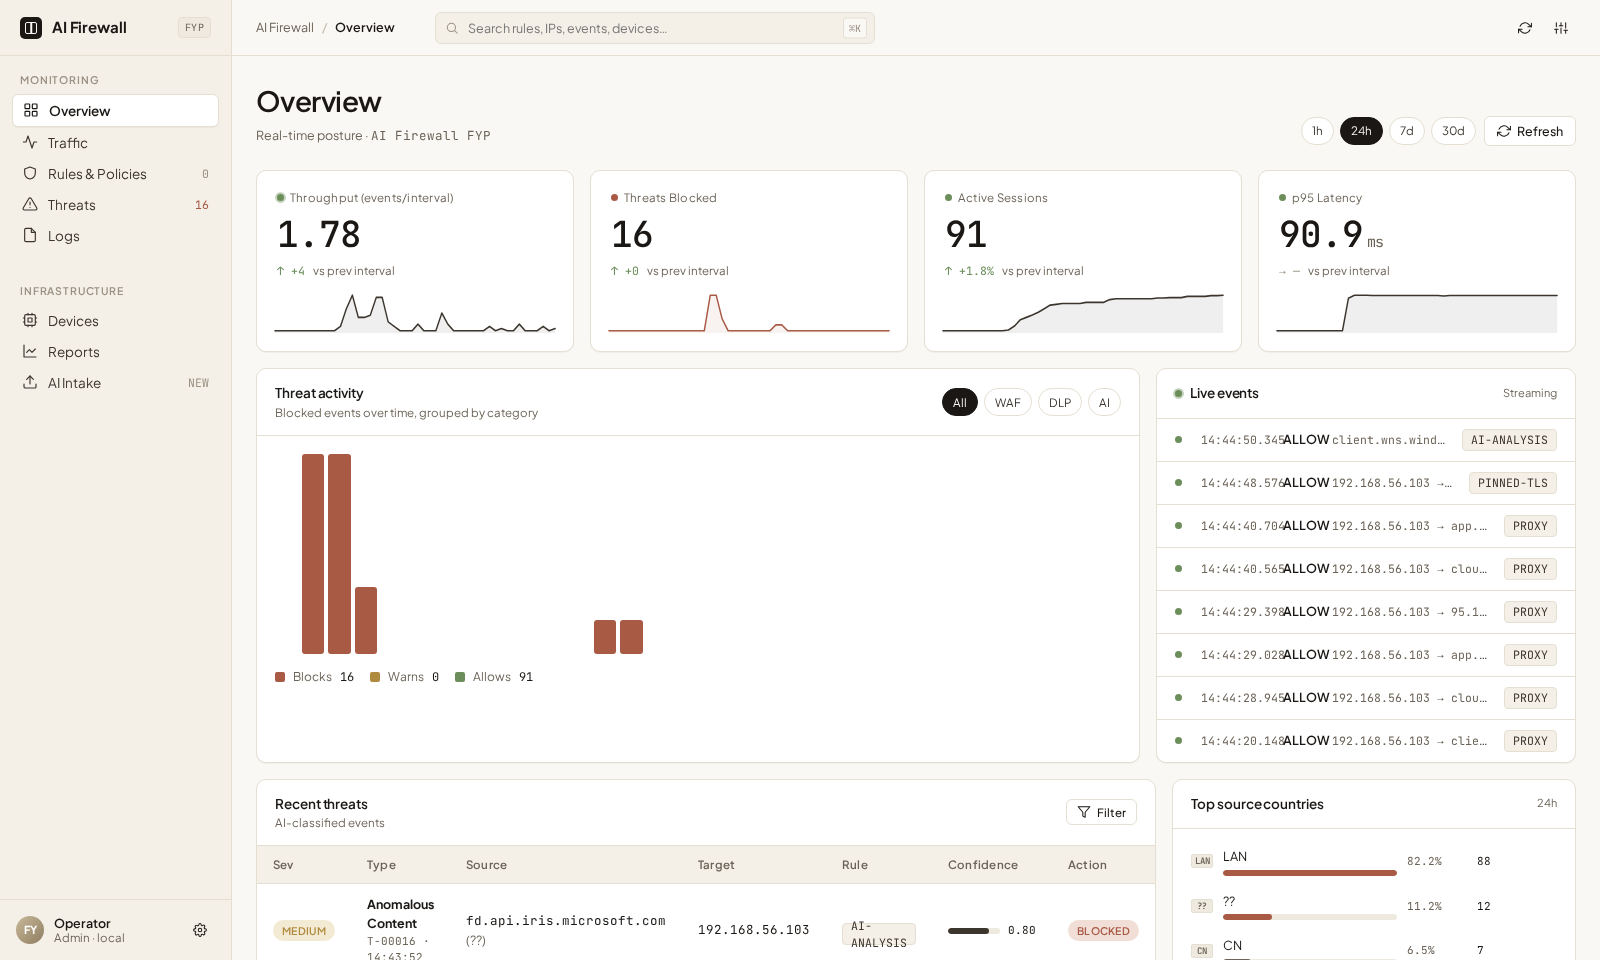
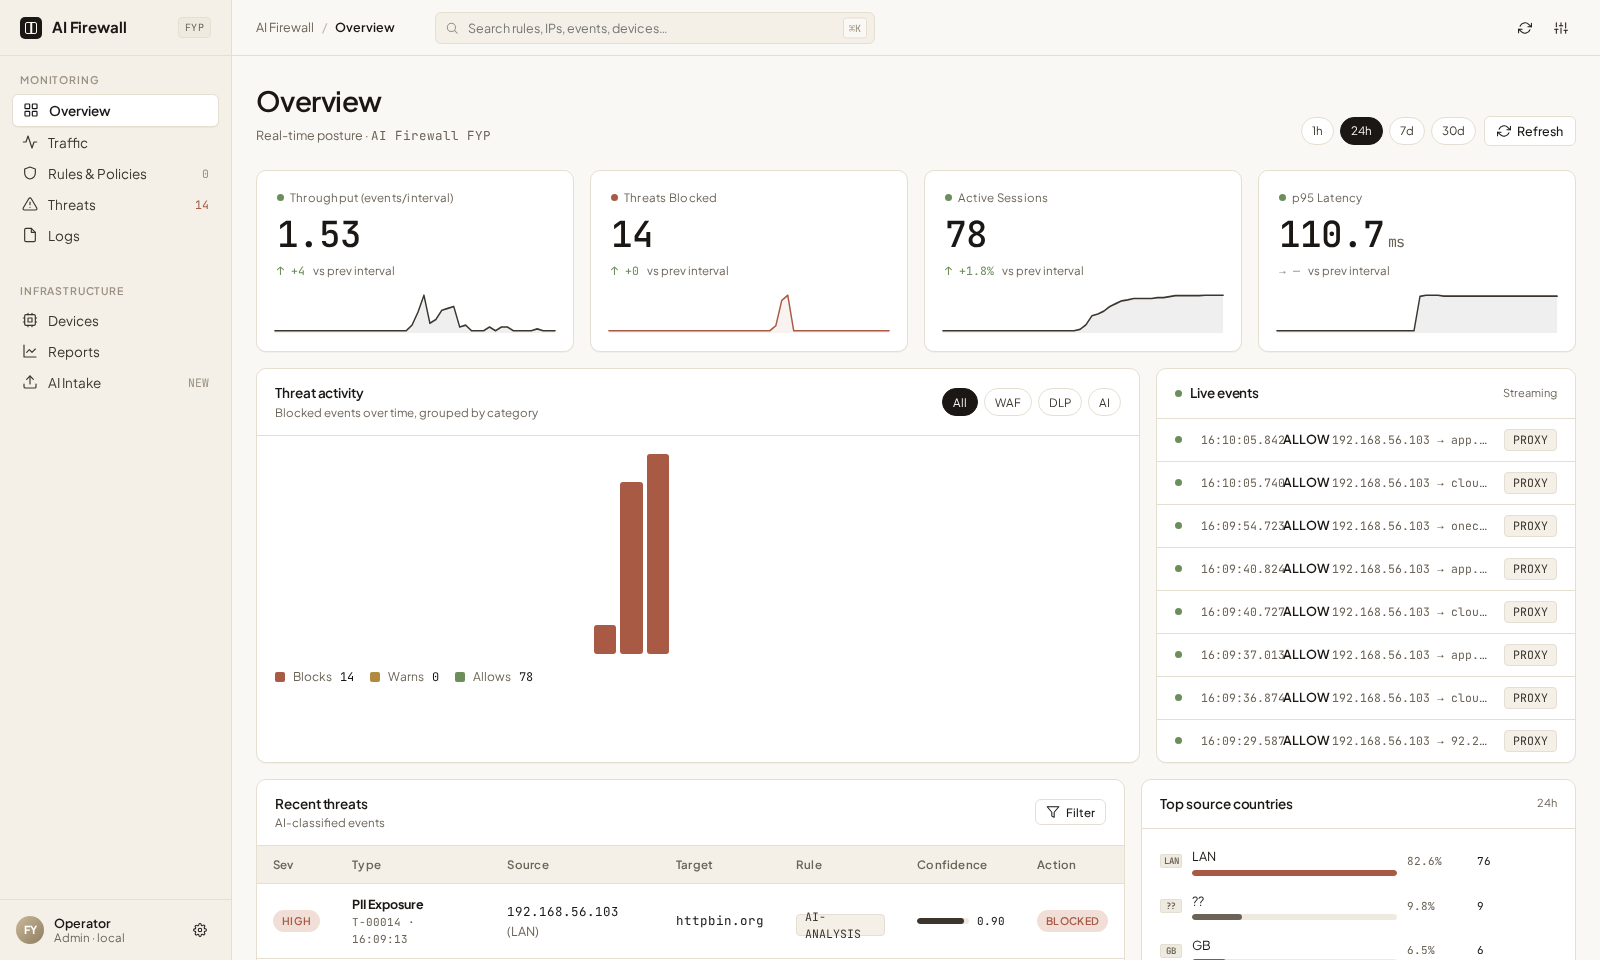
docs: PII policy in README; re-capture screenshots without false-positive rows
The previously published Threats screenshot showed two blocked Microsoft telemetry replies, which were false positives from the PII analyzer. Re-captured after the PII fix: the threat list now shows only the lab battery's real detections with proper labels. README: PII policy section, PII_MIN_SCORE, inbound row, baseline (445 passed), known limitations. Screenshots re-checked by OCR for unrelated infrastructure names.

diff --git a/README.md b/README.md
@@ -57,11 +57,13 @@ This is a gateway people have to be able to use. Every default favours not break
 | **Request target** (path + query string, sent only when it looks interesting) | traversal / sensitive-file regex, secrets scan, WAF model on values with an *active* character (quotes, `<>;\|&$(){}`, `..`, SQL phrases; plain URLs and tokens are skipped) | signature hit, vendor secret, or WAF attack label ≥ threshold |
 | **Outbound body** | secrets, PII patterns, prompt-injection signatures, then router → WAF (JSON scored value-by-value) or zero-shot sensitive-content | vendor secret, PII, WAF/sensitive hit |
 | **Outbound body to an LLM endpoint** | all of the above + extracted message text scored by the prompt-injection model in overlapping windows; signature hits **block** | injection model ≥ threshold or signature |
-| **Inbound reply** | secrets, PII patterns, signatures; the WAF and the injection model do **not** run | PII pattern (secrets and signatures are advisory) |
+| **Inbound reply** | secrets, PII and signatures (all advisory); zero-shot sensitive-content; the WAF and the injection model do **not** run | sensitive-content hit only |
 | **Images** | CLIP multi-label, YOLOv8, OCR → secrets + PII, stego, file-safety guards | policy per group |
 | **Documents** | YARA, VirusTotal hash lookup, metadata forensics, structural anomaly (Isolation Forest) | any engine blocks |
 
 **Secret policy.** Outbound, vendor secrets that never belong on the wire (AWS keys, private keys, Stripe live keys, GitHub/Slack tokens, DB connection strings) block. Credentials that legitimately travel in requests and responses (JWTs, client-side Google API keys, a generic `password=`) are advisory. Inbound, everything is advisory.
+
+**PII policy.** Presidio findings block on *evidence*, not on entity type. A US SSN blocks only at Presidio confidence ≥ `PII_MIN_SCORE` (0.4): a bare nine-digit id scores 0.05 and is ignored, a formatted SSN scores 0.5, and one with context ("ssn", "social security") 0.85. A Luhn-valid number always scores 1.0, so a credit card additionally needs card formatting (`4111 1111 1111 1111`) or a card-ish word just before it (`card`, `cvv`, `visa`, …); a bare Luhn-valid identifier is advisory. This was found by capturing live blocks: a Windows push-notification reply and an app login body were being blocked as "SSN" at confidence 0.05. Phone/email are informational only.
 
 **LLM scope.** Prompt injection only matters for text that will reach an instruction-following model. Traffic is treated as LLM traffic when it is outbound **and** the host is in `config/llm_hosts.json`, the path ends in a known LLM API path (`/v1/chat/completions`, `/v1/messages`, …), or the JSON body looks like an LLM call (`model` + `messages`/`prompt`/`input`/`contents`). The list hot-reloads; add your company's internal LLM gateway there.
 
@@ -217,6 +219,7 @@ All settings are environment variables. `start_all.sh` sources a `.env` in the p
 | `WAF_MAX_VALUES` / `WAF_MAX_VALUE_CHARS` | `64` / `2000` | caps for per-value scoring |
 | `WAF_MODEL_PATH` | `ml/waf/artifacts/waf_distilbert` | joblib file or HF directory |
 | `PROMPT_INJECTION_THRESHOLD` | `0.9` | injection-model block cutoff (LLM traffic only) |
+| `PII_MIN_SCORE` | `0.4` | minimum Presidio confidence for an SSN/IBAN/card match to count |
 | `SENSITIVE_THRESHOLD` / `SENSITIVE_LABELS` | `0.6` / built-in | zero-shot sensitive-content cutoff / label override |
 | `IMAGE_MAX_CONCURRENCY`, `IMAGE_OCR_MAX_FRAMES`, `IMAGE_CLIP_MULTICROP`, `IMAGE_STEGO_STRICT` | `2`, `8`, off, off | image-service tuning |
 | `HOTSPOT_IF` / `INTERNET_IF` | `wlan1` / other wlan | interfaces used by the start/stop scripts |
@@ -299,7 +302,7 @@ source venv/bin/activate
 PYTHONPATH=. pytest tests -q
 ```
 
-Current baseline: **414 passed, 4 xfailed, 7 failed**.
+Current baseline: **445 passed, 4 xfailed, 7 failed**.
 
 - **4 xfailed** are known model limitations recorded as tests (two are `strict`, so the suite goes red if they ever start passing): the prompt-injection model flags the real example.com page, and the WAF still flags JSON values containing URLs / apostrophes.
 - **7 failed** are all in `tests/test_image_service.py`: with `transformers>=5`, `CLIPModel.get_text_features()` returns a `ModelOutput` instead of a tensor, so the CLIP classifier fails to load (the service degrades; OCR/stego/file checks still run). The fix is a one-line `getattr(feats, "pooler_output", feats)` in `ml/image/clip_classifier.py`.
@@ -364,7 +367,8 @@ ai_firewall/
 - **Request targets and bodies only.** Headers (cookies, `User-Agent`) and WebSocket frames are not inspected.
 - **Pinned clients** (apps and SDKs that ignore the system CA store) cannot be inspected; they are blocked or allowlisted.
 - **Traffic that never crosses the network** (a local LLM on the same machine) is invisible to a network firewall.
-- **Model false positives remain** in places: the WAF on values containing URLs/apostrophes, and the PII pattern analyzer on some inbound telemetry. They are tracked as failing/xfail tests or open issues rather than hidden by thresholds.
+- **Model false positives remain** in places: the WAF on values containing URLs/apostrophes, and the zero-shot sensitive-content model on some prose (e.g. terms-of-service text). They are tracked as xfail tests or open issues rather than hidden by thresholds.
+- **IBAN detection is unverified:** Presidio's IBAN recognizer did not match well-formed test IBANs in our probes, so don't rely on IBAN blocking.
 - **Prompt-injection signatures are a tripwire**, not a defence: paraphrases get through outside LLM scope (recall ≈ 83 % on the bundled eval set, 0 false positives on its benign items).
 - **Long prompts:** only up to 16 windows of 1,500 characters are scored, so an injection in the middle of a very large (>~16 KB) prompt can be missed.
 - Single-process services; sized for a lab / small network, not for production load.
